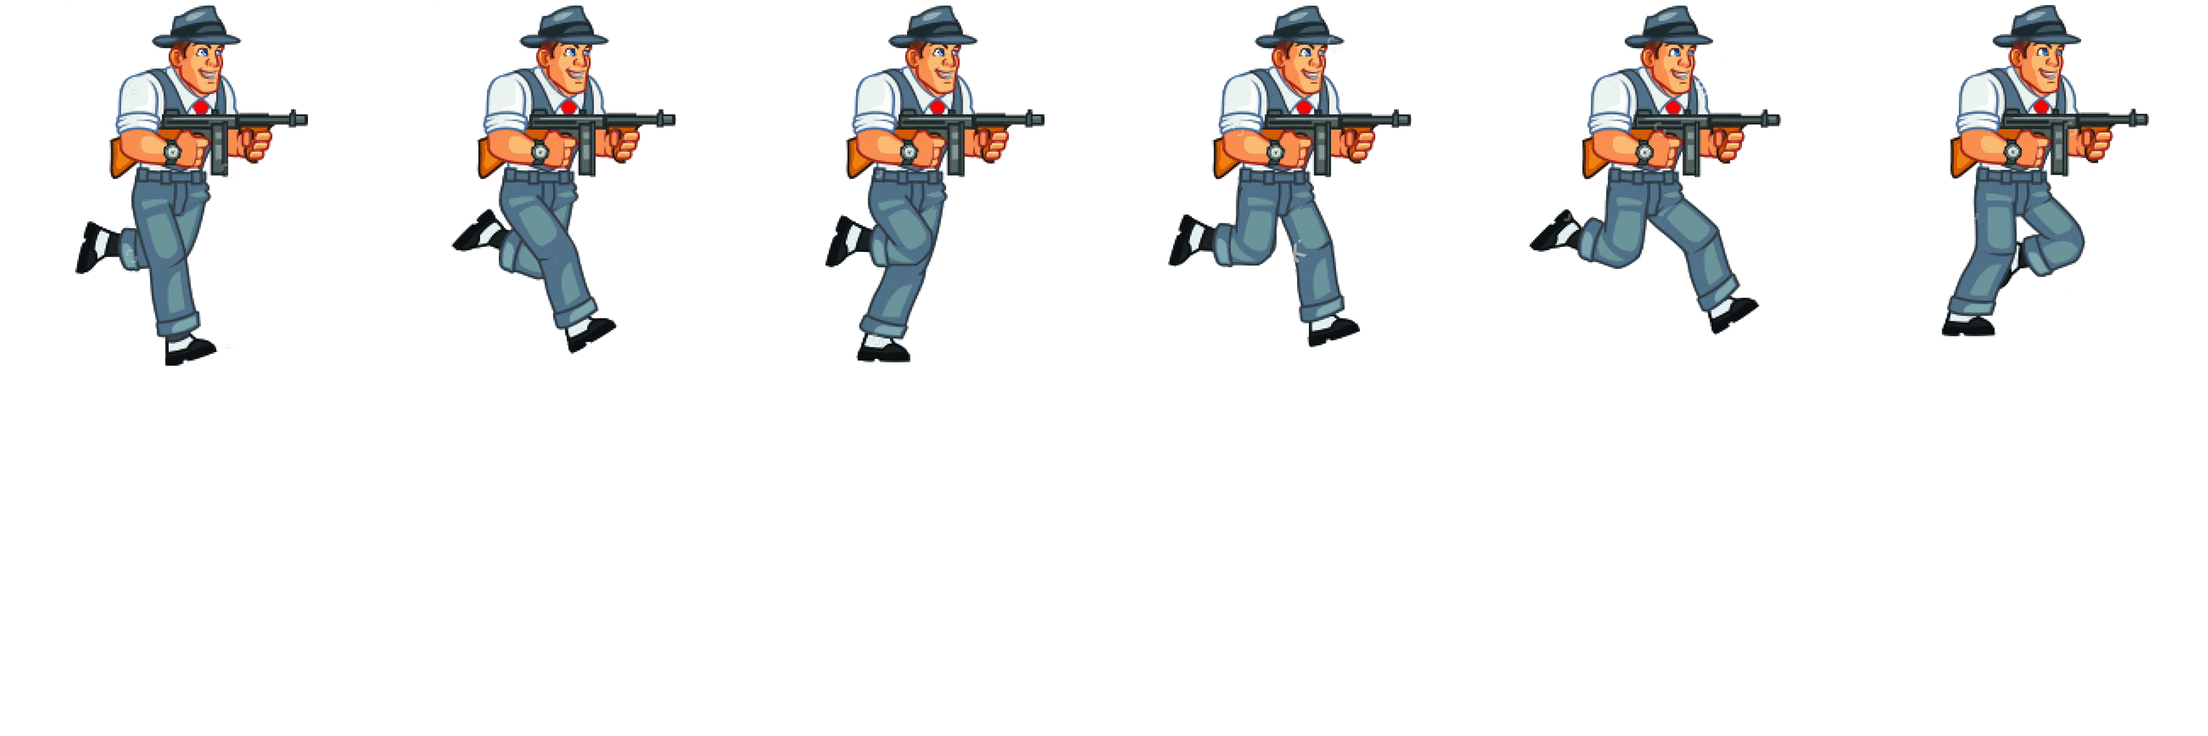
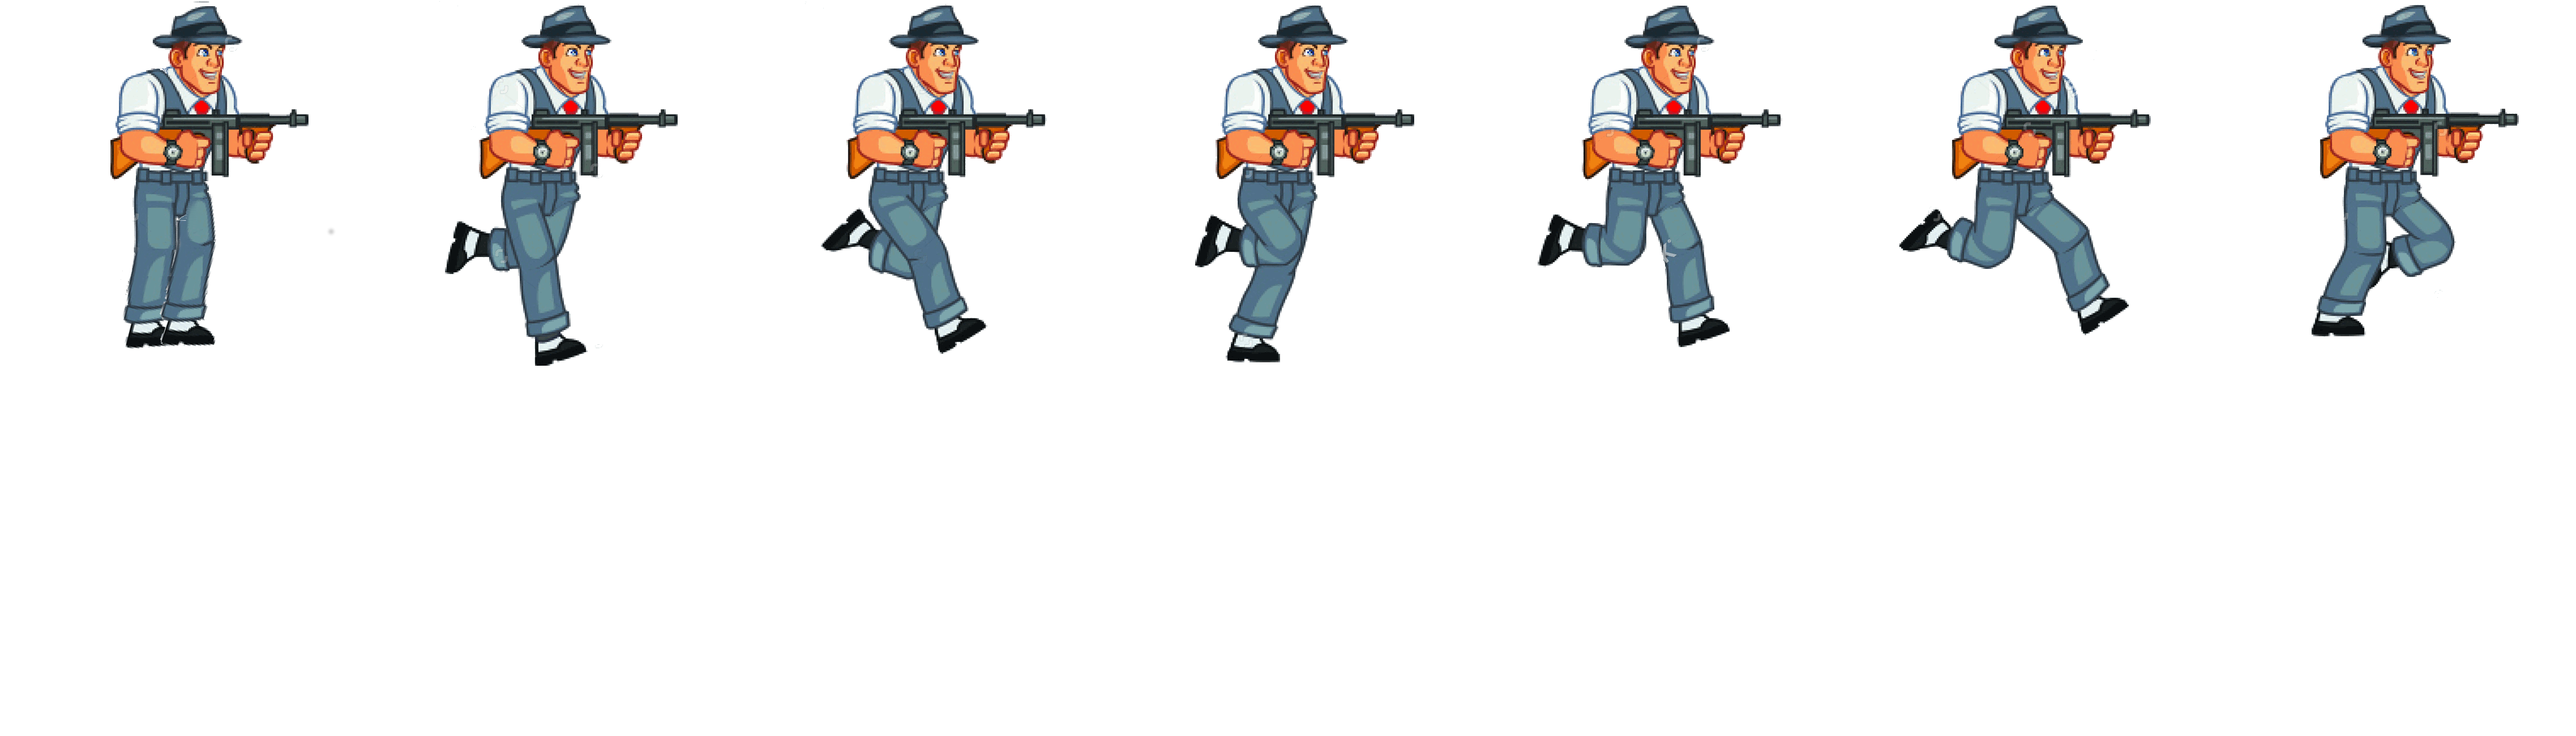
Direction of player fix

Changed region(s): [[0.1551, 0.0, 0.8377, 0.4923], [0.8687, 0.0, 0.9928, 0.4615], [0.031, 0.0, 0.1551, 0.4923]]

diff --git a/Index.html b/Index.html
@@ -46,26 +46,44 @@
 		Crafty.sprite(891, 150,"tram.png", {
 		tram: [0,0]
 		});
+        Crafty.sprite(986, 487,"truck.png", {
+		Truck: [0,0]
+		});
         
-		var tram = spawnTram(20, 129);
+        Crafty.sprite(128, 128,"tire.png", {
+		Tire: [0,0]
+		});
+        
+        var truck = spawnTruck(500, 300);
+        
+        function spawnTruck(disx,disy){
+               var truckfloor = Crafty.e('Floor, 2D, Canvas, Color, Motion, Floor')
+		  .attr({x: disx+60, y: disy, w:120 , h: 0})
+              var truck = Crafty.e('2D, Canvas, Truck, Motion')
+		  .attr({x: disx, y: disy, w:246, h:121})
+              return truck;
+            
+        }
+        
+		var tram = spawnTram(-500, 129);
 			
 		tram.bind("Move", function(oldPosition) {
 
 
-		  if(tram.x > 1000){
+		  if(tram.x > 6000){
               tram = spawnTram(-1000, 129);
 		  }
 		  });
         		 
         var direction = 1; //direction 1 = right, 0 is left
         var playerhealth = 5;
-		var player = Crafty.e('2D, DOM, PlayerSprite, Twoway, Gravity,SpriteAnimation,GroundAttacher, Collision')
+		var player = Crafty.e('2D, DOM, PlayerSprite, Twoway, Gravity,SpriteAnimation,GroundAttacher, Collision, Keyboard')
 		  .attr({x: 10, y: 440, w:150, h: 150})
 		  .twoway(200)
 		  .gravity('Floor')
         .gravityConst(1500);
         var healthbar = gethealthbar(player);
-		   player.reel('PlayerRunning', 1000, 0, 0, 5) // setup animation
+		   player.reel('PlayerRunning', 800, 1, 0, 6) // setup animation
            		  var gunfire = getgunfire(player, direction);
                         player.collision([70,0,70,80,80,80,0,80]);
 
@@ -80,6 +98,15 @@ player.bind('Moved', function(evt){
     if(e.key == Crafty.keys.SPACE) {
         shoot(player, direction, gunfire, "Enemy")
     } 
+    if(e.key == Crafty.keys.LEFT_ARROW || e.key == Crafty.keys.A){
+        player.flip("X");
+        direction =-1;
+    }
+              if(e.key == Crafty.keys.RIGHT_ARROW || e.key == Crafty.keys.D){
+        player.unflip("X");
+                  direction = 1;
+    }
+              
           });
         player.jumper(1000, ['UP_ARROW', 'W']);
 
@@ -117,13 +144,11 @@ player.bind('Moved', function(evt){
 	return 'rgb('+red+','+green+','+blue+')';
 }
 		  player.bind("Move", function(oldPosition) {
-               var screenWidth = Crafty.viewport._width-150;
-    if (this.x >= (screenWidth / 2))
-          {
-
+               var screenWidth = Crafty.viewport._width-300;
+   
             Crafty.viewport.x = (this.x - (screenWidth / 2)) * -1;
             document.getElementById("game").style.backgroundPosition = Crafty.viewport.x + "px";
-          }
+          
               
                  var posx = player.x;
                  if(direction == -1){
@@ -136,21 +161,26 @@ player.bind('Moved', function(evt){
               }
                  gunfire.attr({x: posx, y: player.y-27})
                                                        
-              if(oldPosition._x > player.x && direction == 1){
-                  direction = -1;
-                  player.flip("X");
-              } 
-              if(oldPosition._x < player.x && direction == -1){
-                  direction = 1;
-                  player.unflip("X");
+          var keydown = false;
+              if(this.isDown('LEFT_ARROW') || this.isDown('RIGHT_ARROW')|| this.isDown('A')|| this.isDown('D')){
+                  keydown =true;
               }
               
-		  if(!player.isPlaying() && oldPosition._x != player.x){
               
-		  		  player.animate('PlayerRunning', 0.5, 0, 1, 6) // setup animation
-		  }
+		  if(!player.isPlaying() && oldPosition._x != player.x && oldPosition._x < 5998 && oldPosition._x > 2 && keydown == true){
+              
+		  		  player.animate('PlayerRunning',1) // setup animation
+                  
+		  } 
+              
           
 });
+        player.bind('EnterFrame', function(){
+            if(!player.isPlaying()){
+              player.sprite(0, 0);
+          }
+        });
+        
         var interval = 5000;
         var enemiesalive = 0;
         var myVar = setInterval(myTimer, interval);
@@ -163,7 +193,7 @@ function myTimer() {
         //SpawnEnemy(x, y);
     }
 }
-                SpawnEnemy(1000, 0);
+                SpawnEnemy(700, 400);
 
         function gethealthbar(entity){
             var bar = Crafty.e("2D, DOM, Color, right")
@@ -236,11 +266,10 @@ function myTimer() {
                 shoot(enemy,enemydirection, enemygunfire, "Player")
             }
 var distance = difference(player.x, enemy.x);
-if(distance < 250){
+if(distance > 600 || distance < 250){
                 enemy.velocity().x = 0;
             } 
-            else {
-            }
+            else 
             if(enemy.x > player.x && distance > 250){
                 enemy.velocity().x = -70;
             } else if(enemy.x < player.x && distance > 250){
@@ -268,21 +297,21 @@ if(distance < 250){
         
 	     /* Floors */
 		 Crafty.e('Floor, 2D, Canvas, Color')
-		  .attr({x: 0, y: 440, w: 1500, h: 10})
+		  .attr({x: 0, y: 440, w: 6000, h: 10})
          
          
 Crafty.e("2D, DOM, Color, solid, left")
       .attr({x: -1, y: -200, w: 1, h: 646})
-      .color('black');
-/*Crafty.e("2D, DOM, Color, solid, right")
-      .attr({x: 1500, y: -200, w: 1, h: 646})
-      .color('black');*/
+      .color();
+        Crafty.e("2D, DOM, Color, solid, right")
+      .attr({x: 6000, y: -200, w: 1, h: 646})
+      .color();
 		  
         
         
 		  function spawnTram(disx, disy){
               var tramfloor = Crafty.e('Floor, 2D, Canvas, Color, Motion, Floor')
-		  .attr({x: disx+55, y: disy+57, w: 770, h: 10})
+		  .attr({x: disx+55, y: disy+57, w: 770, h: 0})
               tramfloor.velocity().x = 80;
               var tram = Crafty.e('2D, Canvas, tram, Motion')
 		  .attr({x: disx, y: disy})
